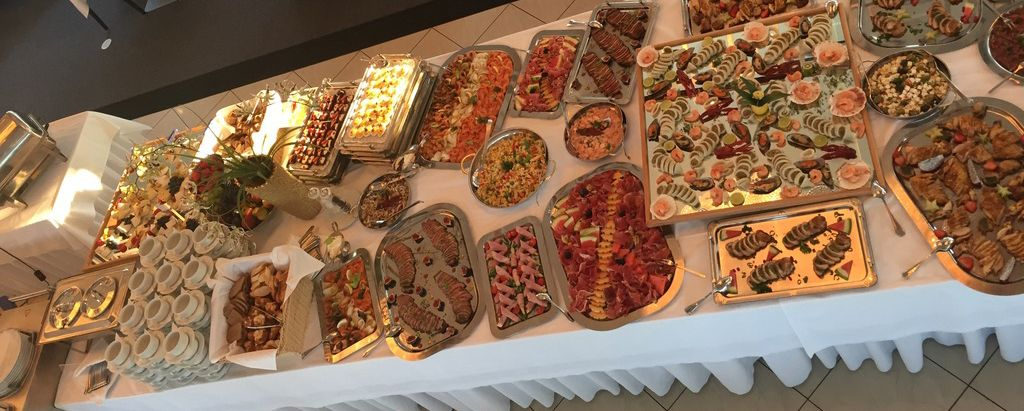
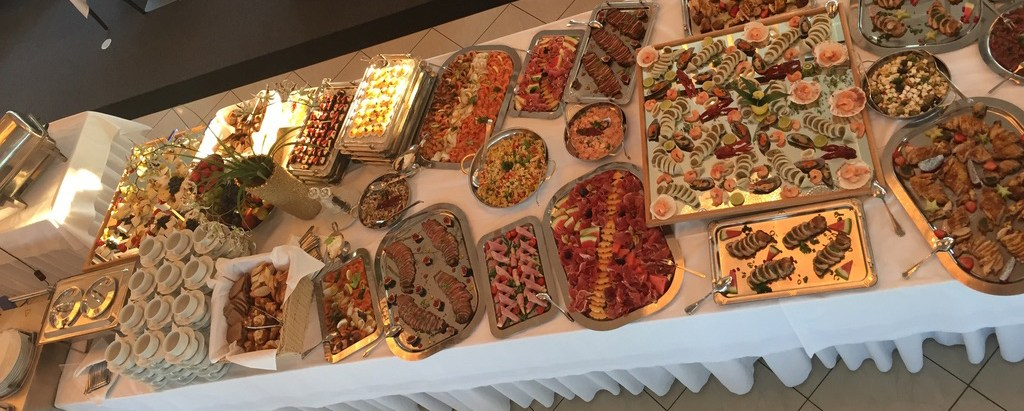
optimize images

Changed region(s): [[0.375, 0.2044, 0.4062, 0.2336]]

diff --git a/vite.config.js b/vite.config.js
@@ -9,15 +9,15 @@ export default defineConfig({
     ViteImageOptimizer({
       png: {
         // https://sharp.pixelplumbing.com/api-output#png
-        quality: 80,
+        quality: 89,
       },
       jpeg: {
         // https://sharp.pixelplumbing.com/api-output#jpeg
-        quality: 80,
+        quality: 89,
       },
       jpg: {
         // https://sharp.pixelplumbing.com/api-output#jpeg
-        quality: 80,
+        quality: 89,
       },
     }),
   ],
